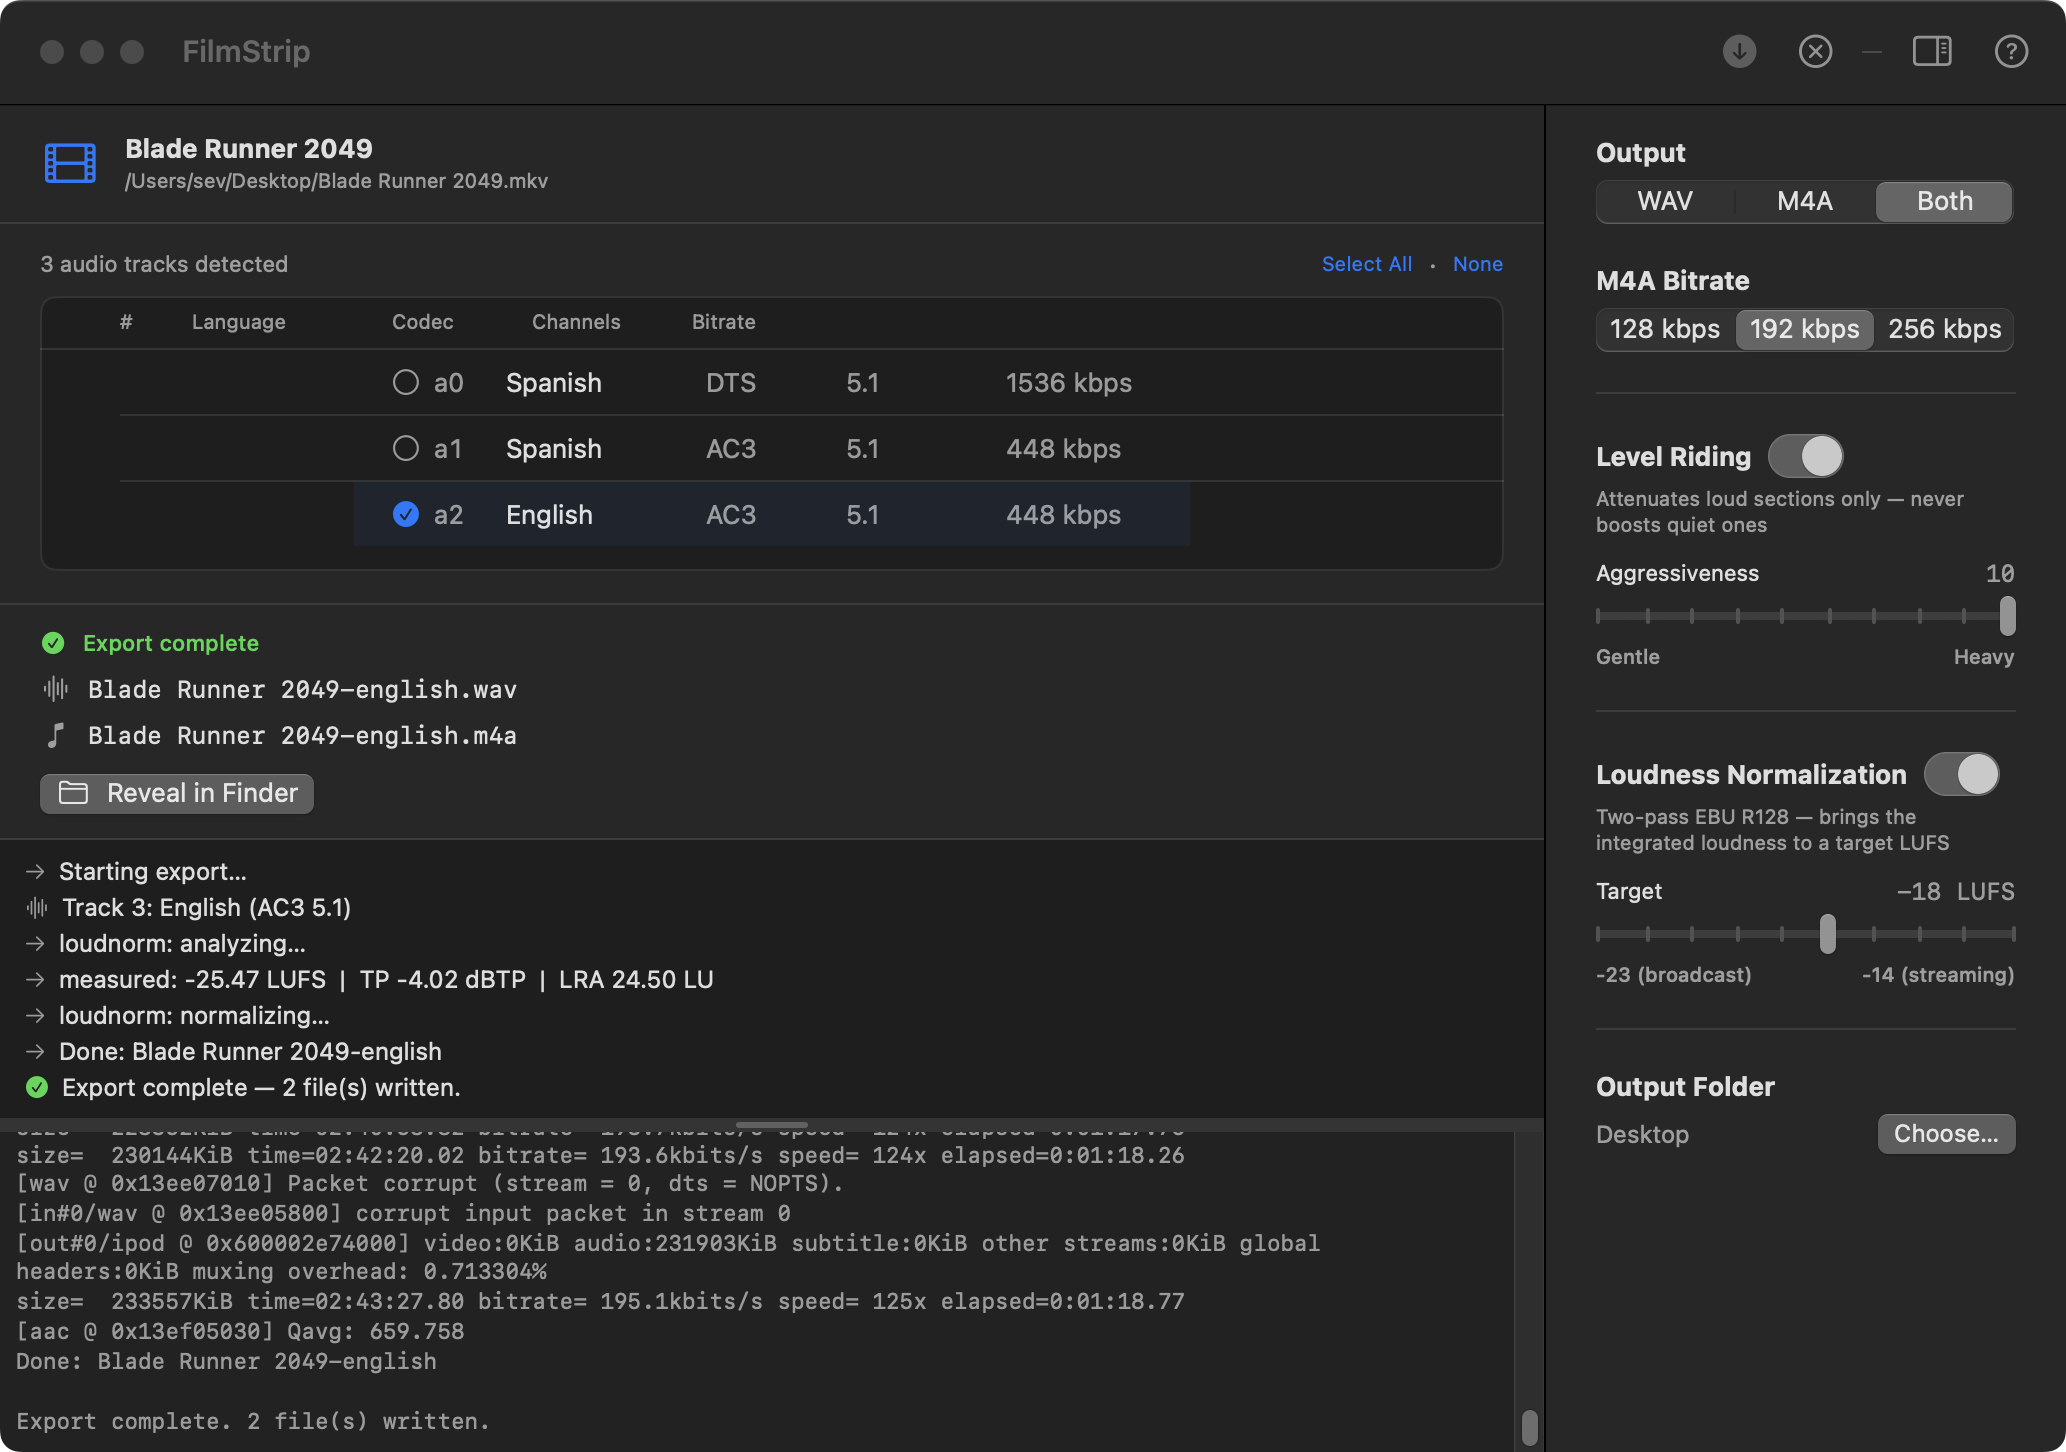
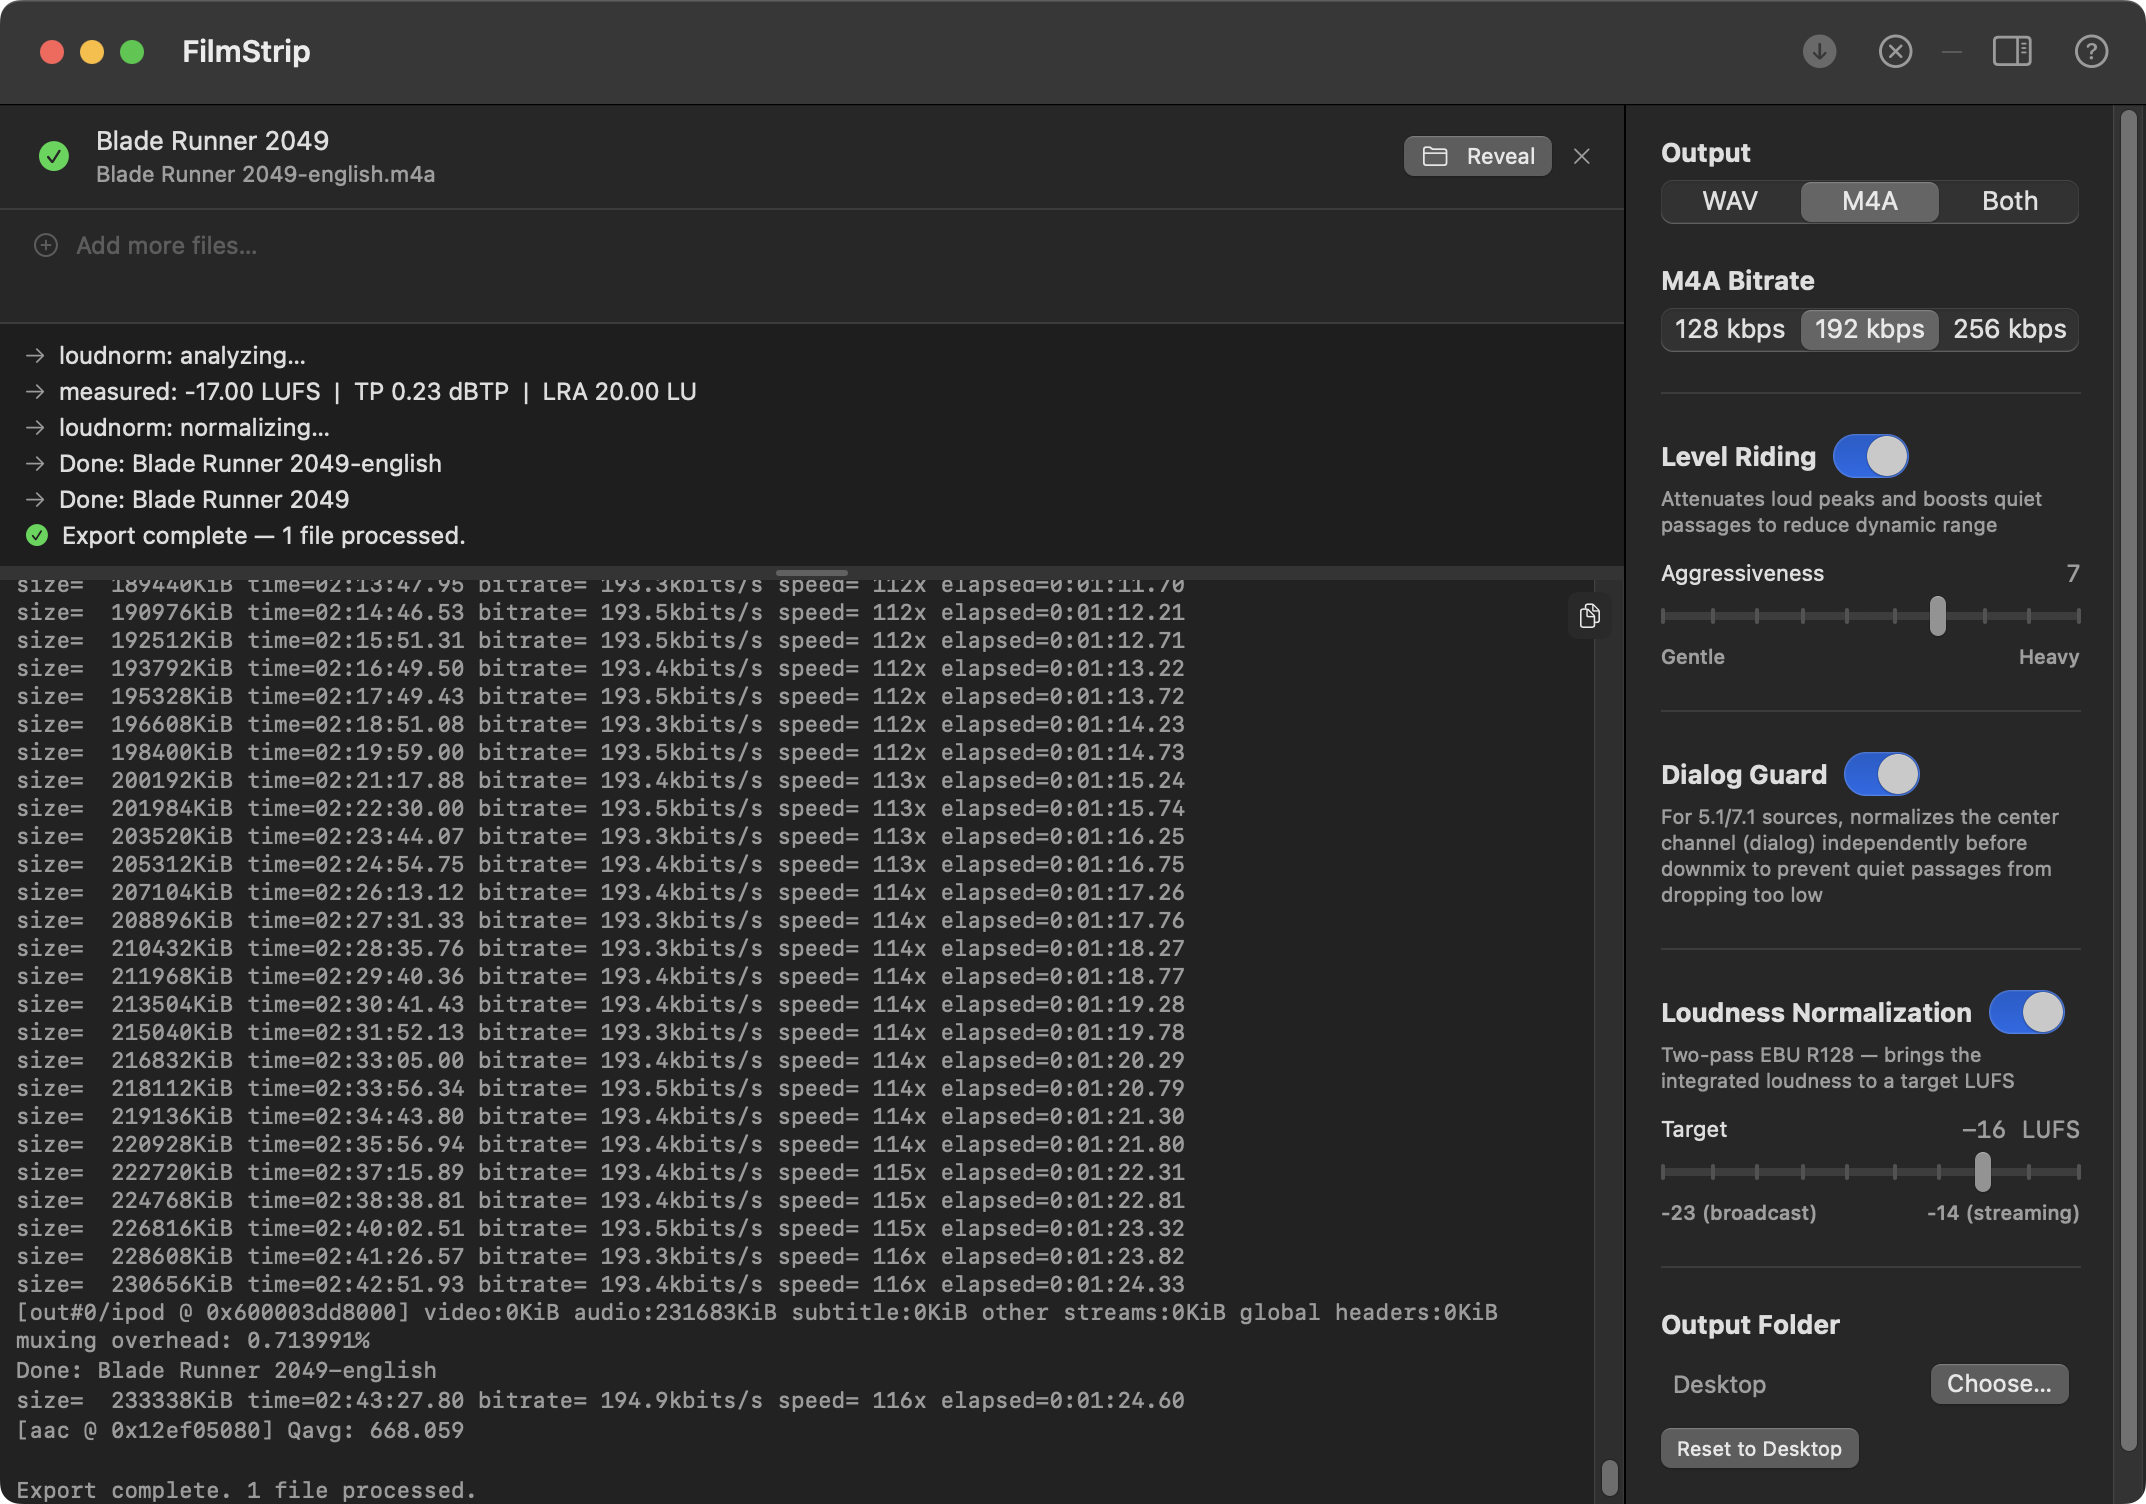
Update screenshots and add idle state to app page

diff --git a/docs/index.html b/docs/index.html
@@ -456,8 +456,14 @@
 
       <div class="screenshot-block">
         <div class="section-label">FilmStrip</div>
+        <div class="screenshot-label">The App</div>
+        <p class="screenshot-desc">Drop a movie file onto the window or click Open Files. Settings on the right control output format, bitrate, and the optional audio processing pipeline.</p>
+        <img class="screenshot-img" src="screenshots/fs-idle.png" alt="FilmStrip main window" loading="lazy">
+      </div>
+
+      <div class="screenshot-block">
         <div class="screenshot-label">Drop a Movie</div>
-        <p class="screenshot-desc">Drag any video file onto the window. FilmStrip instantly scans every audio stream and lists them with language, codec, channels, bitrate, and embedded track titles when available.</p>
+        <p class="screenshot-desc">FilmStrip instantly scans every audio stream and lists them with language, codec, channels, bitrate, and embedded track titles when available. English tracks are auto-selected — any combination can be exported.</p>
         <img class="screenshot-img" src="screenshots/fs-main.png" alt="FilmStrip showing detected audio tracks" loading="lazy">
       </div>
 